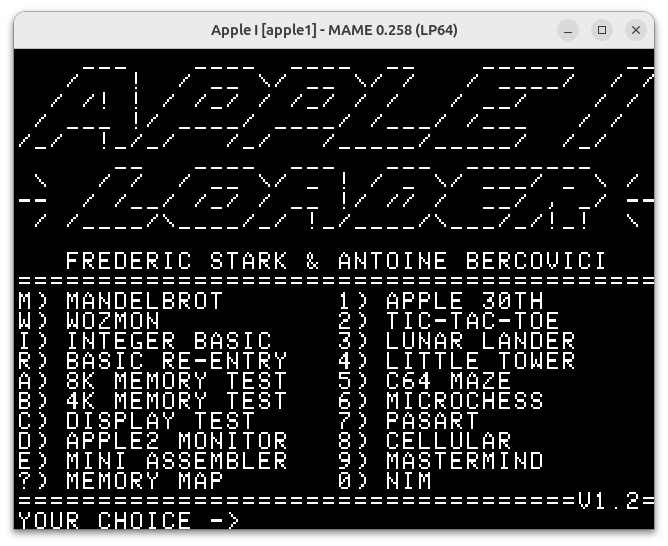
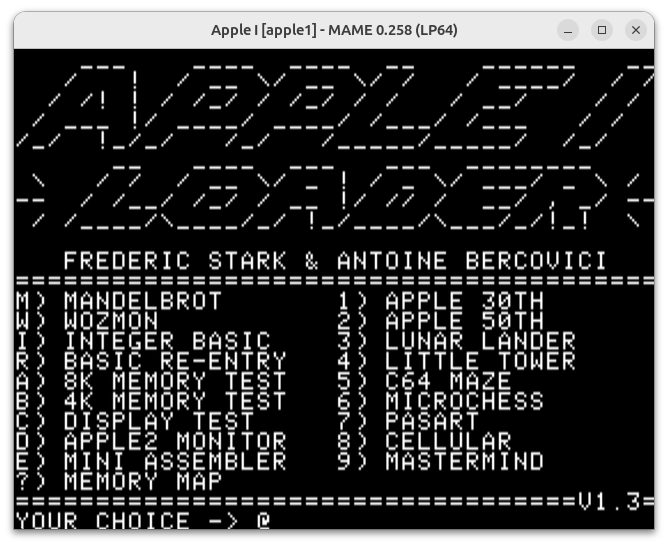
README: add Apple 50th demo, remove Nim and Tic-Tac-Toe, update menu to V1.3

diff --git a/README.md b/README.md
@@ -146,17 +146,13 @@ This will allow you to check that the jumpers on the RAM/ROM card are properly c
 
 *Author: Dave Schmenk (2006)*
 
-## Playing Tic-Tac-Toe
+## The Apple 50th Demo
 
-**``2``** will launch a classic from the late 70s, early 80s: a BASIC tic-tac-toe game, shown here in a somewhat precarious position.
+**``2``** will launch the Apple 50th Anniversary Demo, celebrating fifty years of Apple (April 1, 1976 - 2026) with ASCII art of Apple's iconic machines, from the Apple-1 to today. Press any key to go to the next picture, or ``Esc`` to return to the monitor.
 
-![Playing Tic-Tac-Toe](images/tic-tac-toe-1.png)
+![The Macintosh 128K, in the Apple 50th demo](images/apple-50th.png)
 
-This is a BASIC program. Pressing ``Reset`` and choosing to re-enter BASIC with the ``R`` option will let you admire the source code:
-
-![Looking at Tic-Tac-Toe](images/tic-tac-toe-2.png)
-
-*Author: [Larry Nelson (1977)](https://www.applefritter.com/node/2902)*
+*Author: Jonathan Turpin (2026)*
 
 ## Landing on the Moon
 
@@ -237,17 +233,3 @@ The game comes from [Volume 1, Number 8, Page 26 of "Dr Dobb's Journal of Comput
 In the same issue of Dr Dobb's, you'll find the source code of the 6502 Disassembler above, and, page 35, the original criticism of the 56-bits DES encryption algorithm by Hellman and Diffie themselves...
 
 *Author: Steve Wozniak (1976)*
-
-## Nim
-
-Finally, **``0``** will launch [a game of Nim](https://en.wikipedia.org/wiki/Nim), an ancien game, very popular on early computers, as it is easy to program and have an elegant mathematical way for the computer to play.
-
-![A game of Nim](images/nim.png)
-
-At the begining you choose how many heaps you want, and how many objects you want on each heap. Remember that you will play first.
-
-At each turn, you have to choose a heap, and remove at least one object from it. The player that removes the last object from the last heap wins (this is the opposite of the way it is commonly played, but doesn't change the core game).
-
-Have fun, but if you don't play absolutely perfectly, your Apple 1 will always win...
-
-*Author: Unknown, please contact (github issue) if you have info.*
